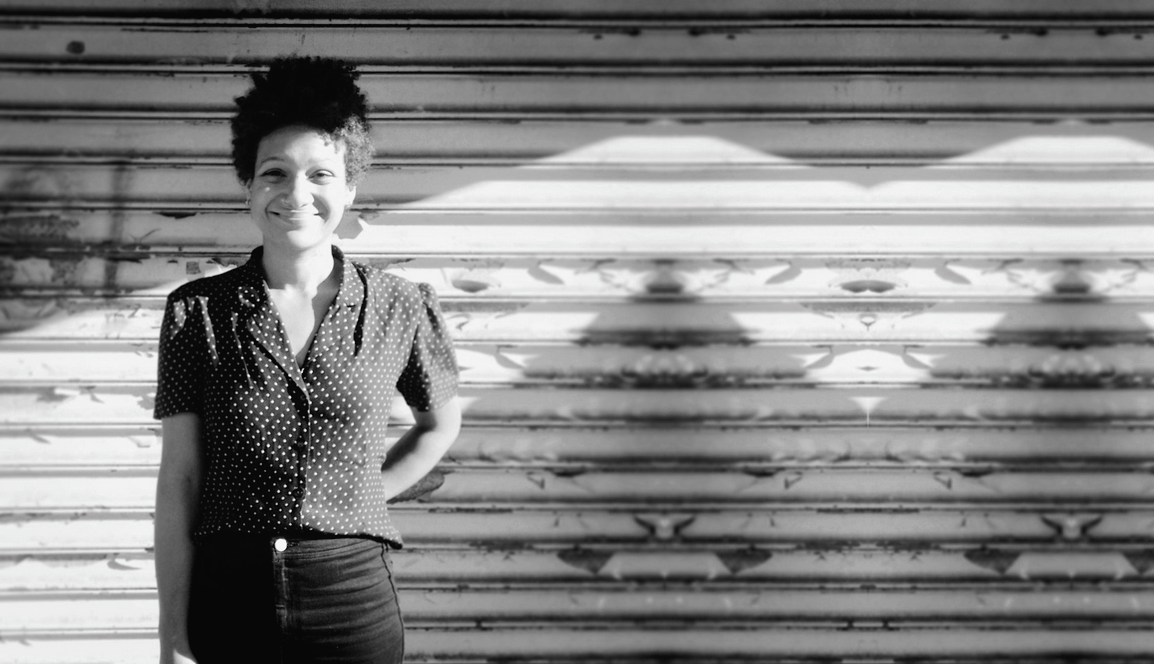
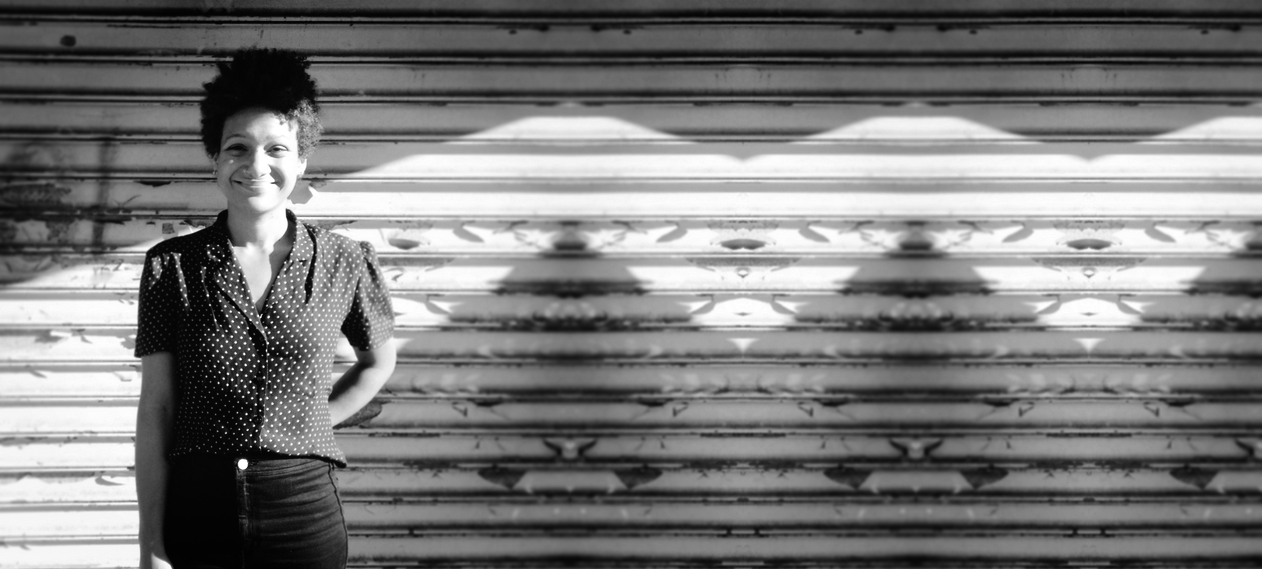
re-formatted index

diff --git a/projects.html b/projects.html
@@ -28,21 +28,21 @@
             <a href="http://instagram.com/rosapergams" target="_blank"><img src="http://i.imgur.com/OvTI0TX.png" alt="instagram"></a>
           </div>
         </div>
+        <nav>
           <div id="main_nav_bar" class="header">
             <ul>
               <li><a class="main_nav_button" href="index.html"><img id="home_img" src="imgs/icon_4932.png" alt="Home" /></a></li>
-              <li><a class="main_nav_button" href="contact.html">Contact</a></li>
-              <li><a class="main_nav_button" href="about.html">About</a></li>
-              <li><a class="main_nav_button" href="projects.html">Projects</a></li>
+              <li><a id="contact_button" class="main_nav_button" href="#contact">Contact</a></li>
+              <li><a id="about_button" class="main_nav_button" href="#about">About</a></li>
+              <li><a id="projects_button" class="main_nav_button" href="projects.html">Projects</a></li>
               <li><a class="main_nav_button" href="index-blog.html">Blog</a></li>
-                <ul id="archive">
-                  <li><a class="main_nav_button" href="#">Archive</a></li>
-                </ul>
+<!--                 <ul id="archive">
+                  <li><a class="main_nav_button" href="archive.html">Archive</a></li>
+                </ul> -->
               </li>
             </ul>
           </div>
         </nav>
-      </div>
       </div>
       </header>
 

diff --git a/stylesheets/main.css b/stylesheets/main.css
@@ -449,7 +449,7 @@ pre {
 
 #headline_2 {
   background: linear-gradient(to right, rgba(0,0,0,0) 0%,rgba(0,0,0,0) 25%,rgba(0,0,0,0.65) 100%), url(../imgs/rosa.png) no-repeat;
-  background-position: 50% 50%;
+  background-position: 25% 50%;
   border-bottom: 1px solid #F0F0F0;
   background-size: cover;
   padding-top: 150px;
